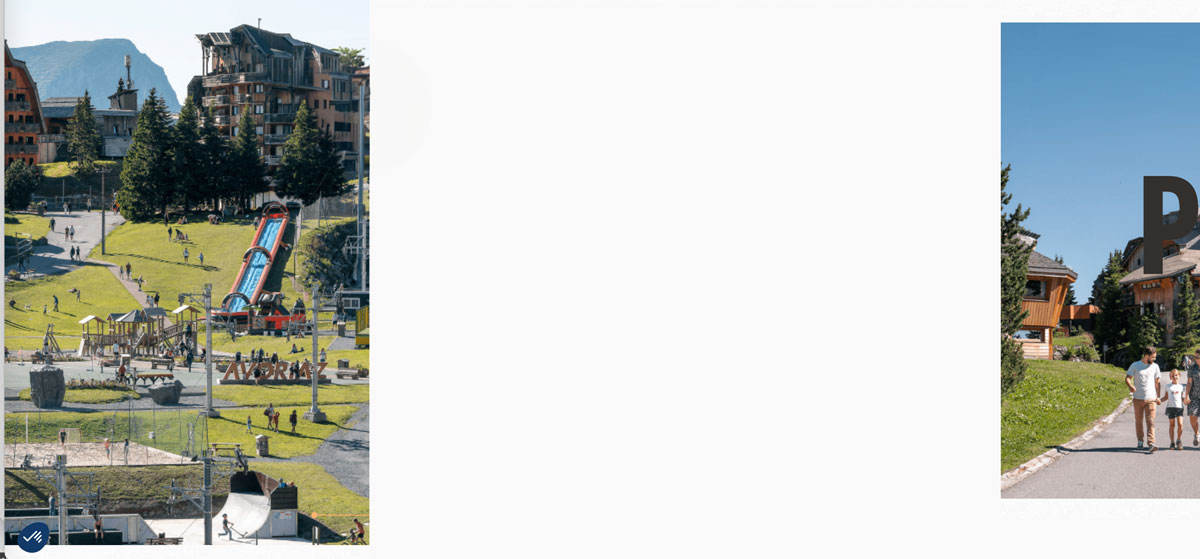
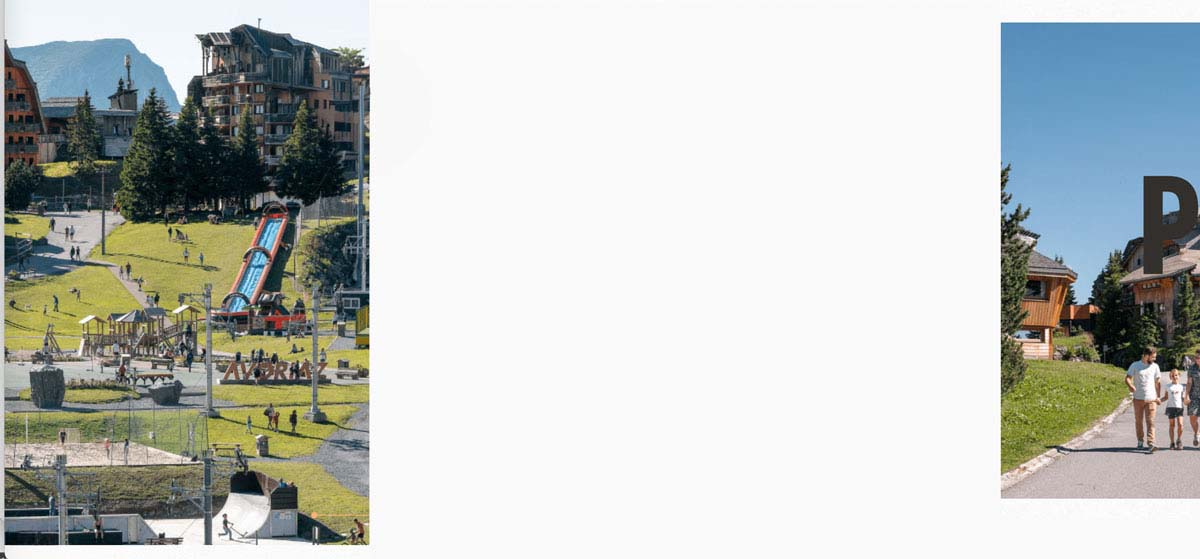
slide show finished!
made a slide show yay!

Changed region(s): [[0.0, 0.9123, 0.0617, 1.0], [0.185, 0.7907, 0.2158, 0.8211], [0.0617, 0.5778, 0.0925, 0.6082]]

diff --git a/index.html b/index.html
@@ -164,33 +164,65 @@
             <div class="slideshow-container">
                 <!--full width images with number and caption-->
                 <div class="mySlides fade">
-                    <div class="numbertext">1/6</div>
-                    <img src="./images/slide_allactivitiesalt.jpg" style="width:85rem">
+                    <div class="numbertext">1/5</div>
+                    <img src="./images/slide_allactivities.jpg" style="width:85rem">
+                    <h1 class="slide_h1-org">ACTIVITIES</h1>
+                    <h1 class="slide_h1-blk">OFFERED</h1>
+                    <p class="slide_p-text">During your stay, the resort offers you a<br> wide range of free activities.
+                        Make the most<br> of
+                        it...while keeping your wallet in your<br>pocket!</p>
+                    <a class="slide_btn" href="!#">FIND OUT MORE</a>
+                    <img class="slide_arrows" src="./images/feature_arrow-icons.svg">
                 </div>
 
                 <div class="mySlides fade">
-                    <div class="numbertext">2/6</div>
-                    <img src="./images/slide_activitesalt.jpg" style="width:85rem">
+                    <div class="numbertext">2/5</div>
+                    <img src="./images/slide_ped.jpg" style="width:85rem">
+                    <h1 class="slide_h1-org">100%</h1>
+                    <h1 class="slide_h1-blk">PEDESTRIAN</h1>
+                    <p class="slide_p-text">Avoriaz is a 100% pedestrian resort, leave<br>the car behind, and enjoy a
+                        stay where<br>everything is accessable on foot or by bike.</p>
+                    <a class="slide_btn" href="!#">DISCOVER</a>
+                    <img class="slide_arrows" src="./images/feature_arrow-icons.svg">
                 </div>
 
                 <div class="mySlides fade">
-                    <div class="numbertext">3/6</div>
-                    <img src="./images/slide_pedalt.jpg" style="width:85rem">
+                    <div class="numbertext">3/5</div>
+                    <img src="./images/slide_mtbike.jpg" style="width:85rem">
+                    <h1 class="slide_h1-org">MOUNTAIN</h1>
+                    <h1 class="slide_h1-blk">BIKING</h1>
+                    <p class="slide_p-text">Riding in Avoriaz means enjoying 10 lifts and 19<br> downhill trails, plus
+                        easy, queue-free access to the<br>5 Portes du Soleil bike parks, thanks to our
+                        central<br>location in the area. The Avoriaz Bike Park is loved by<br>both seasoned riders and
+                        beginners
+                        for its wide...</p>
+                    <a class="slide_btn" href="!#">FIND OUT MORE</a>
+                    <img class="slide_arrows" src="./images/feature_arrow-icons.svg">
                 </div>
 
                 <div class="mySlides fade">
-                    <div class="numbertext">4/6</div>
-                    <img src="./images/slide_mtbikealt.jpg" style="width:85rem">
+                    <div class="numbertext">4/5</div>
+                    <img src="./images/slide_trailrun.jpg" style="width:85rem">
+                    <h1 class="slide_h1-org">TRAIL</h1>
+                    <h1 class="slide_h1-blk">RUNNING</h1>
+                    <p class="slide_p-text">Between France and Switzerland, across<br>ridges and alpine meadows, give
+                        trail<br>running a try on our many marked routes.<br>How about a high-altitude run
+                        this<br>summer?</p>
+                    <a class="slide_btn" href="!#">FIND OUT MORE</a>
+                    <img class="slide_arrows" src="./images/feature_arrow-icons.svg">
                 </div>
 
                 <div class="mySlides fade">
-                    <div class="numbertext">5/6</div>
-                    <img src="./images/slide_trailrunalt.jpg" style="width:85rem">
-                </div>
-
-                <div class="mySlides fade">
-                    <div class="numbertext">6/6</div>
-                    <img src="./images/slide_golfalt.jpg" style="width:85rem">
+                    <div class="numbertext">5/5</div>
+                    <img src="./images/slide_golf.jpg" style="width:85rem">
+                    <h1 class="slide_h1-org">GOLF</h1>
+                    <h1 class="slide_h1-blk">AVORIAZ</h1>
+                    <p class="slide_p-text">Perched on a plateau at 1,600 metres above sea<br>level and overlooking
+                        the Morzine valley, the Avoriaz<br>golf course offers a 9-hole, par 36 course stretching
+                        over<br>
+                        2,850 metres. It spans 45 hectares of alpine meadows<br>and forest, with...</p>
+                    <a class="slide_btn" href="!#">FIND OUT MORE</a>
+                    <img class="slide_arrows" src="./images/feature_arrow-icons.svg">
                 </div>
 
                 <!--Next and previous buttons-->

diff --git a/css/main.css b/css/main.css
@@ -695,7 +695,7 @@ a.home-popup_btn-orange:active {
     padding: 1rem;
     color: white;
     font-weight: bold;
-    font-size: 1rem;
+    font-size: 3rem;
     transition: 0.6s ease;
     border-radius: 0 3px 3px 0;
     user-select: none;
@@ -713,17 +713,53 @@ a.home-popup_btn-orange:active {
     background-color: #fdb273;
 }
 
-/*Caption text
-.text {
+/*Caption text*/
+.slide_h1-org {
+    font-family: var(--font-sans-serif);
     color: #fdb273;
-    font-size: 1rem;
+    font-size: 7rem;
+    position: absolute;
+    top: 0;
+    left: 20rem;
+    width: 100%;
+    text-align: left;
+    z-index: 1;
+}
+
+.slide_h1-blk {
+    font-family: var(--font-sans-serif);
+    color: black;
+    font-size: 7rem;
+    position: absolute;
+    top: 7rem;
+    left: 28rem;
+    width: 100%;
+    text-align: left;
+    z-index: 1;
+}
+
+.slide_p-text {
+    font-family: var(--font-sans-serif);
+    color: #5d6d81;
+    font-size: .9rem;
+    line-height: 1.5;
+    font-style: italic;
     padding: .5rem .8rem;
     position: absolute;
-    bottom: .5rem;
+    top: 22rem;
+    left: 30rem;
     width: 100%;
-    text-align: center;
+    text-align: left;
+    z-index: 1;
 }
-*/
+
+.slide_arrows {
+    width: 10rem;
+    z-index: 1;
+    position: absolute;
+    top: 25rem;
+    left: 60rem;
+}
 
 /*number text (1/6 etc)*/
 .numbertext {
@@ -734,9 +770,46 @@ a.home-popup_btn-orange:active {
     top: 0;
 }
 
+/*button FIND OUT MORE*/
+.slide_btn {
+    font-family: var(--font-sans-serif);
+    font-weight: bold;
+    border: none;
+    color: white;
+    background: #fdb273;
+    padding: 10px 42px;
+    font-size: .8rem;
+    cursor: pointer;
+    display: inline-block;
+    position: absolute;
+    top: 32rem;
+    left: 31rem;
+    text-decoration: none;
+}
+
+/*link active--*/
+a.slide_btn:link {
+    color: white;
+    text-decoration: none;
+}
+
+a.slide_btn:visited {
+    color: white;
+    text-decoration: none;
+}
+
+a.slide_btn:hover {
+    color: white;
+    background-color: #133a69;
+}
+
+a.slide_btn:active {
+    color: white;
+    background-color: #133a69;
+}
 
 
-/*
+/*------------*/
 
 .nav-feature__container {
     max-width: 100%;
@@ -834,6 +907,7 @@ a.home-popup_btn-orange:active {
     top: 26rem;
     left: 60rem;
 }
+
 */
 /*link active--
 a.headline__feature-button-orange:link {
